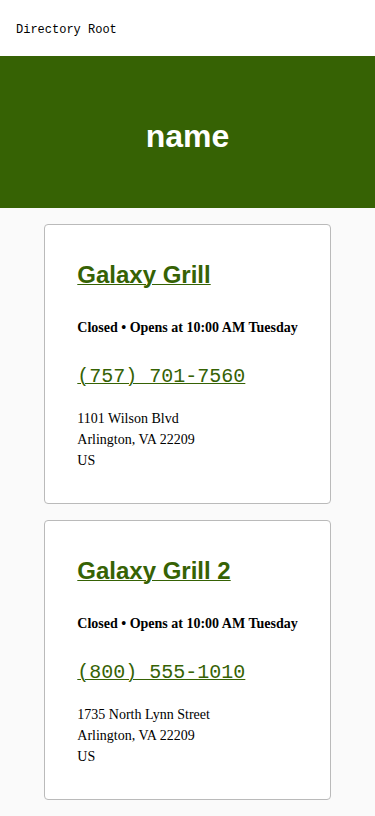
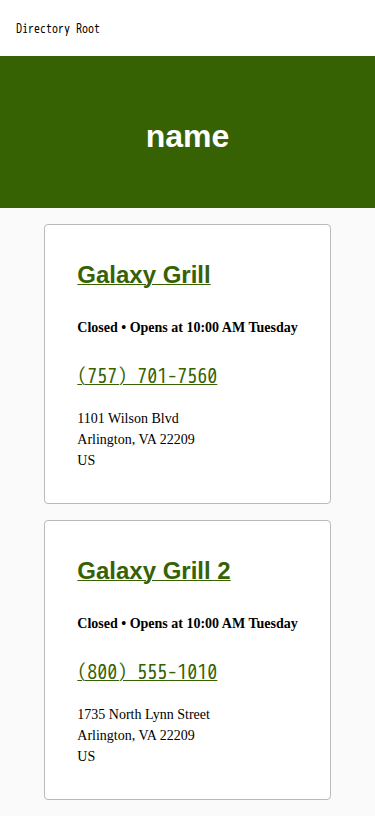
chore: upgrade playwrite and adjust local layout gen (#1387)
VULN-49479 and VULN-49465

tested local layout gen + new https seemed to work!

---------

Changed region(s): [[0.2053, 0.7966, 0.6453, 0.8578], [0.2053, 0.4289, 0.6453, 0.4902], [0.0293, 0.0306, 0.2933, 0.0613]]

diff --git a/packages/visual-editor/src/vite-plugin/layout-generation/modelProxy.ts b/packages/visual-editor/src/vite-plugin/layout-generation/modelProxy.ts
@@ -13,7 +13,7 @@ import {
 } from "../local-editor/server.ts";
 
 export const GENERATION_GATEWAY_URL =
-  "http://modelgateway.service.us3dev.consul:8008/openai/responses";
+  "https://global-modelgw-us3dev.yext.com/openai/responses";
 const modelRequestSchema = z.object({
   model: z.string().min(1),
   stream: z.literal(true),
@@ -78,6 +78,7 @@ export const handleLocalEditorModelRequest = async (
   try {
     const upstream = await fetch(GENERATION_GATEWAY_URL, {
       method: "POST",
+      redirect: "error",
       signal: controller.signal,
       headers: {
         "Content-Type": "application/json",

diff --git a/packages/visual-editor/src/components/atoms/timestamp.test.tsx b/packages/visual-editor/src/components/atoms/timestamp.test.tsx
@@ -58,7 +58,8 @@ describe("timestampFormatter", () => {
       option: TimestampOption.DATE_RANGE,
       hideTimeZone: true,
     });
-    expect(result).toEqual("Jan 1 – 5, 2024");
+    // Intl may use thin spaces or regular spaces around the range separator.
+    expect(result.replaceAll("\u2009", " ")).toEqual("Jan 1 – 5, 2024");
   });
 
   it("formats DATE_TIME_RANGE on the same day", () => {

diff --git a/packages/visual-editor/src/vite-plugin/layout-generation/modelProxy.test.ts b/packages/visual-editor/src/vite-plugin/layout-generation/modelProxy.test.ts
@@ -65,6 +65,7 @@ it("forwards prepared requests, existing headers and raw response bytes", async 
   expect(fetchMock).toHaveBeenCalledWith(
     GENERATION_GATEWAY_URL,
     expect.objectContaining({
+      redirect: "error",
       body: JSON.stringify(body),
       headers: expect.objectContaining({
         "Yext-Business-Id": "1000152098",
